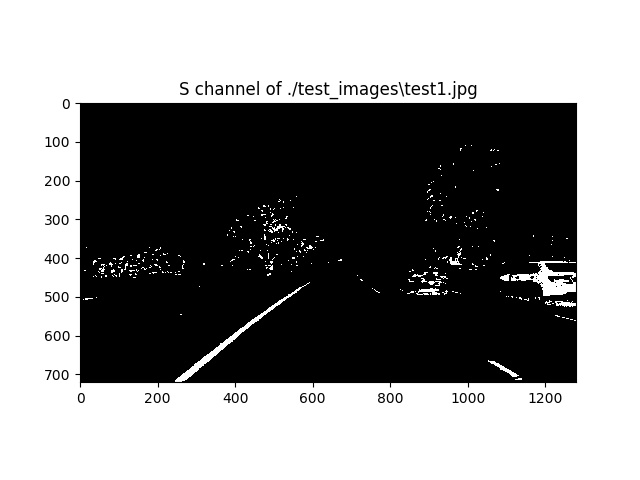
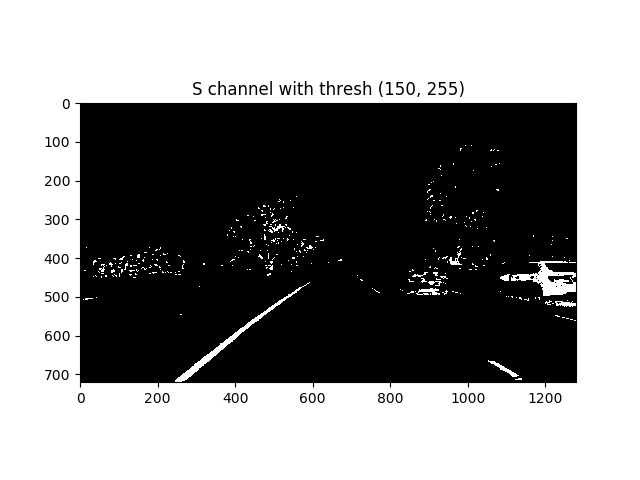
minor fix

Changed region(s): [[0.2812, 0.1562, 0.75, 0.2188]]

diff --git a/pipeline.py b/pipeline.py
@@ -97,7 +97,7 @@ def process_img(img, fname='video.jpg', save=False):
     l_channel_img_bin = apply_thresh(l_channel_img, thresh=(200, 255))
     if save:
         plt.imshow(l_channel_img_bin, cmap="gray")
-        plt.title("L channel with thresh {}".format((150, 255)))
+        plt.title("L channel with thresh {}".format((200, 255)))
         plt.savefig(join(save_dir, "l_channel_img_bin.jpg"))
 
     s_channel_img = bgr2x(undistorted_img, x="s")
@@ -109,7 +109,7 @@ def process_img(img, fname='video.jpg', save=False):
     s_channel_img_bin = apply_thresh(s_channel_img, thresh=(150, 255))
     if save:
         plt.imshow(s_channel_img_bin, cmap="gray")
-        plt.title("S channel of {}".format(fname))
+        plt.title("S channel with thresh {}".format((150, 255)))
         plt.savefig(join(save_dir, "s_channel_bin.jpg"))
 
     #####################
